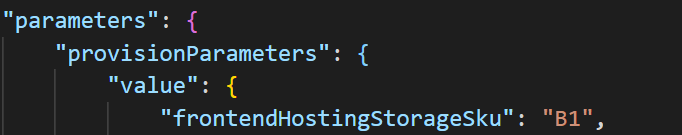
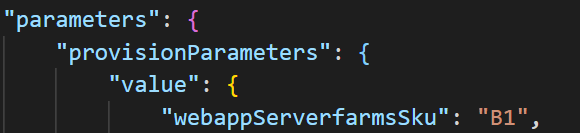
docs: update

diff --git a/docs/fx-core/arm/arm-help.md b/docs/fx-core/arm/arm-help.md
@@ -24,7 +24,7 @@ List common errors as follows. You can find the common deployment error from sea
 1. If the error wrapped by `botProvision` segment, add property `botWebAppSku` to `provisionParameters` if not exist, and set the value to "B1" or other valid values.
 
     ![image](../../images/fx-core/arm/bot-sku-config.png)
-1. If the error wrapped by `frontendHostingProvision` segment, add property `frontendHostingStorageSku` to `provisionParameters` if not exist, and set the value to "B1" or other valid values.
+1. If the error wrapped by `webappProvision` segment, add property `webappServerfarmsSku` to `provisionParameters` if not exist, and set the value to "B1" or other valid values.
     
     ![image](../../images/fx-core/arm/frontend-hosting-sku-config.png)
 1. Run `Teams: Provision in the cloud` command again
